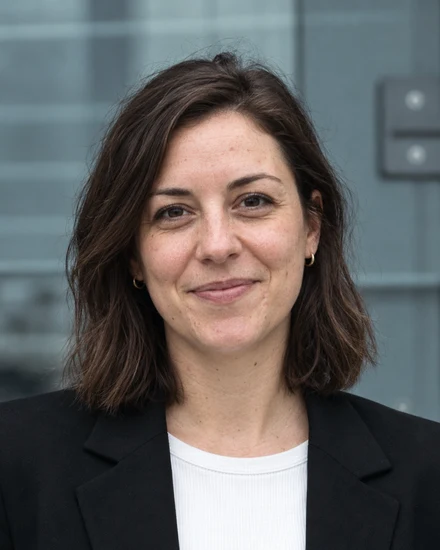
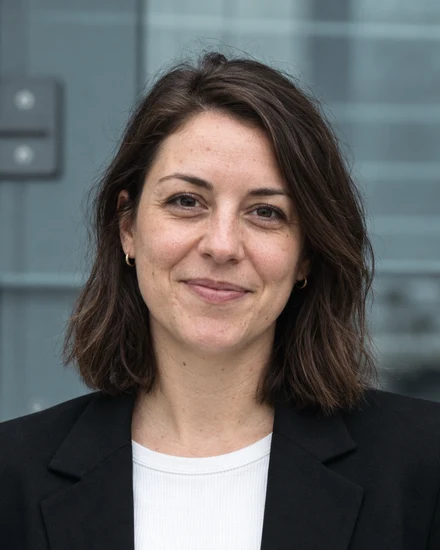
polish(recht, about): Dokumentblatt, sortierter Abschluss, Balken am Rand
Noahs vier Punkte:

1. Laura gespiegelt. Sie und Michael standen in identischer Haltung, was
   in der Dreierreihe wie dasselbe Bild wirkte. Nur die Bilddatei getauscht.

2. Rechtsseiten wirkten kahl. Der Text liegt jetzt auf EINEM deckend weissen
   Dokumentblatt statt frei auf dem Seitengrund, und die Abschnitte sind
   zweispaltig: Kopf mit Nummer und Titel links (bleibt beim Lesen stehen),
   Text rechts. Das fuellt die Breite und macht das Dokument ueberfliegbar,
   ohne den alten Stapel aus zwoelf Karten zurueckzuholen. Die
   Abschnittsnummer traegt jetzt sichtbares Gewicht statt als Etikett zu
   verschwinden. Unter 900px wieder einspaltig.

3. Lesebalken klebte nicht an der Navbar. Ursache: er hing an einer fest
   angenommenen Navbar-Hoehe, die Navbar schrumpft aber beim Scrollen
   (navbarScrolled). Er sitzt jetzt am oberen Fensterrand ueber der Navbar
   und ist damit von deren Hoehe unabhaengig.

4. Abschlussblock stand durcheinander. Ursache war mein Fehler: ctaInner hat
   VIER Kinder, mein Raster hatte drei Spalten, das vierte rutschte in eine
   zweite Reihe. Jedes Kind hat jetzt seinen benannten Platz
   (Symbol links, Ueberschrift ueber Text, Knopf rechts), mobil gestapelt.

Belegt: Wortzahl aller drei Seiten weiterhin identisch, keine zusammen-
geklebten Woerter, kein Ueberlauf und richtige Anordnung bei 1440, 1100,
950, 768, 390 und 320px.

diff --git a/frontend/src/styles/LegalPages.module.css b/frontend/src/styles/LegalPages.module.css
@@ -89,13 +89,16 @@
 }
 
 /* ===================== LESEFORTSCHRITT ===================== */
-/* ⚠ Die Navbar ist sticky und 65px hoch mit z-index 1000. Ein Balken bei
-   top:0 verschwindet dahinter, deshalb sitzt er darunter und darueber. */
+/* ⚠ Der Balken darf NICHT an einer festen Navbar-Hoehe haengen: die Navbar
+   schrumpft beim Scrollen (Klasse navbarScrolled), dadurch klaffte eine
+   sichtbare Luecke zwischen Navbar und Balken. Er sitzt deshalb am oberen
+   Fensterrand ueber der Navbar (die hat z-index 1000) und ist damit von
+   jeder Navbar-Hoehe unabhaengig. */
 .progress {
   position: fixed;
-  top: var(--navhoehe);
+  top: 0;
   left: 0;
-  height: 2px;
+  height: 3px;
   width: 0%;
   background: var(--blau);
   z-index: 1001;
@@ -297,26 +300,47 @@
 .tocItem.active .tocNum { color: var(--blau); opacity: 1; }
 
 /* ===================== INHALT ===================== */
-.content { min-width: 0; }
+/* Der Text liegt auf EINEM Blatt statt auf zwoelf gestapelten Karten. Das
+   gibt der Seite Halt, ohne den Kartenstapel zurueckzuholen: die Abschnitte
+   darin trennt weiterhin nur eine Haarlinie. */
+/* Deckend weiss, nicht durchscheinend: auf dem leicht blaeulichen Seitengrund
+   hebt sich das Blatt sonst kaum ab und die Seite wirkt weiterhin kahl. */
+.content {
+  min-width: 0;
+  background: #ffffff;
+  border: 1px solid var(--linie);
+  border-radius: 20px;
+  padding: clamp(26px, 3.4vw, 48px) clamp(20px, 3vw, 44px) clamp(30px, 3vw, 44px);
+  box-shadow: 0 26px 60px -36px rgba(20, 40, 79, 0.34), 0 2px 5px rgba(20, 40, 79, 0.04);
+}
 
-/* Kein Kartenstapel mehr: die Abschnitte trennt eine Haarlinie. */
+/* Kopf links, Text rechts. Dasselbe Magazin-Prinzip wie im Ratgeber: fuellt
+   die Breite und macht das Dokument ueberfliegbar. */
 .section {
+  display: grid;
+  grid-template-columns: minmax(0, 0.4fr) minmax(0, 1fr);
+  column-gap: clamp(20px, 2.6vw, 40px);
+  align-items: start;
   background: none;
   border: 0;
   border-top: 1px solid var(--linie);
   border-radius: 0;
   box-shadow: none;
-  padding: clamp(34px, 4vw, 52px) 0 clamp(12px, 2vw, 20px);
+  padding: clamp(30px, 3.4vw, 44px) 0 clamp(12px, 2vw, 20px);
   margin: 0;
   scroll-margin-top: calc(var(--navhoehe) + 24px);
 }
-.section:first-child { border-top: 0; padding-top: clamp(10px, 2vw, 22px); }
+.section:first-child { border-top: 0; padding-top: 0; }
 
 .sectionHeader {
+  grid-column: 1;
   display: flex;
+  flex-direction: column;
   align-items: flex-start;
-  gap: 15px;
-  margin-bottom: 22px;
+  gap: 13px;
+  margin-bottom: 0;
+  position: sticky;
+  top: calc(var(--navhoehe) + 26px);
 }
 /* Aus der Verlaufskachel wird ein ruhiges Zeichen in der Markenfarbe. */
 .sectionIcon {
@@ -333,14 +357,16 @@
 }
 .sectionIcon svg { width: 17px; height: 17px; }
 .sectionHeaderText { min-width: 0; }
+/* Traegt die Abschnittsnummer und ist in der linken Spalte das Ankerzeichen,
+   deshalb deutlich groesser als ein blosses Etikett. */
 .sectionKicker {
   font-family: var(--mono);
-  font-size: 11.5px;
+  font-size: 15px;
   font-weight: 600;
   text-transform: uppercase;
-  letter-spacing: .13em;
-  color: var(--blau-tief);
-  margin-bottom: 5px;
+  letter-spacing: .1em;
+  color: var(--blau);
+  margin-bottom: 7px;
 }
 .sectionTitle {
   margin: 0;
@@ -351,11 +377,14 @@
   color: var(--tinte);
 }
 
+/* Die Zeilenlaenge wird ueber die Schriftgroesse gesteuert, nicht ueber
+   max-width: sonst deckelt sie die Spalte und rechts bleibt Weissraum. */
 .sectionBody {
-  font-size: clamp(16px, 1.15vw, 17.5px);
-  line-height: 1.75;
+  grid-column: 2;
+  font-size: clamp(15.5px, 1.12vw, 17px);
+  line-height: 1.72;
   color: var(--tinte-weich);
-  max-width: 74ch;
+  min-width: 0;
 }
 .sectionBody p { margin: 0 0 17px; }
 .sectionBody p:last-child { margin-bottom: 0; }
@@ -397,7 +426,7 @@
   display: flex;
   flex-direction: column;
   gap: 10px;
-  max-width: 74ch;
+  max-width: none;
 }
 .list li {
   position: relative;
@@ -429,7 +458,7 @@
   font-size: clamp(15.5px, 1.1vw, 16.5px);
   line-height: 1.68;
   background: none;
-  max-width: 74ch;
+  max-width: none;
 }
 .callout strong { font-weight: 600; }
 .calloutInfo { border-left-color: var(--blau); color: var(--tinte-weich); }
@@ -453,7 +482,7 @@
   /* Auf der getoenten Flaeche reicht --tinte-weich nicht (4,29:1), deshalb
      ein dunklerer Ton nur hier. */
   color: #465c82;
-  max-width: 74ch;
+  max-width: none;
 }
 .highlightBox strong { color: var(--tinte); font-weight: 600; }
 
@@ -466,7 +495,7 @@
   gap: 0 clamp(20px, 3vw, 44px);
   margin: 22px 0;
   border-top: 1px solid var(--linie);
-  max-width: 74ch;
+  max-width: none;
 }
 .infoCard {
   background: none;
@@ -523,7 +552,7 @@ a.infoCard:hover .infoValue { color: var(--blau-tief); }
   gap: 0;
   margin: 24px 0;
   border-top: 1px solid var(--linie);
-  max-width: 74ch;
+  max-width: none;
 }
 .tarifCard {
   position: relative;
@@ -597,27 +626,38 @@ a.infoCard:hover .infoValue { color: var(--blau-tief); }
   color: var(--tinte);
   box-shadow: none;
 }
+/* ⚠ ctaInner hat VIER Kinder (Symbol, Ueberschrift, Text, Knopf). Ein Raster
+   mit drei Spalten schob das vierte in eine zweite Reihe, dadurch stand alles
+   durcheinander. Jedes Kind bekommt deshalb seinen benannten Platz. */
 .ctaInner {
   position: relative;
   z-index: 1;
   display: grid;
   grid-template-columns: auto minmax(0, 1fr) auto;
+  grid-template-areas:
+    "symbol ueberschrift knopf"
+    "symbol text         knopf";
   align-items: center;
-  gap: clamp(16px, 2.5vw, 30px);
+  column-gap: clamp(16px, 2.5vw, 28px);
+  row-gap: 6px;
 }
 .ctaIcon {
+  grid-area: symbol;
   display: inline-flex;
   align-items: center;
   justify-content: center;
-  width: 42px;
-  height: 42px;
+  width: 44px;
+  height: 44px;
   border-radius: 12px;
   background: var(--flaeche);
   color: var(--blau);
   margin: 0;
   flex-shrink: 0;
+  align-self: center;
 }
 .ctaTitle {
+  grid-area: ueberschrift;
+  align-self: end;
   margin: 0;
   font-size: clamp(20px, 2vw, 25px);
   font-weight: 600;
@@ -626,13 +666,17 @@ a.infoCard:hover .infoValue { color: var(--blau-tief); }
   color: var(--tinte);
 }
 .ctaText {
-  margin: 7px 0 0;
+  grid-area: text;
+  align-self: start;
+  margin: 0;
   max-width: 62ch;
   font-size: 16px;
   line-height: 1.6;
   color: var(--tinte-weich);
 }
 .ctaButton {
+  grid-area: knopf;
+  align-self: center;
   display: inline-flex;
   align-items: center;
   gap: 9px;
@@ -666,16 +710,35 @@ a.infoCard:hover .infoValue { color: var(--blau-tief); }
   .shell { grid-template-columns: minmax(0, 1fr); }
   .toc { display: none; }
 }
+/* Unter 900px reicht die Breite nicht mehr fuer zwei Spalten: Kopf ueber
+   den Text, und der Kopf klebt nicht mehr mit. */
+@media (max-width: 900px) {
+  .section { grid-template-columns: minmax(0, 1fr); }
+  .sectionHeader,
+  .sectionBody { grid-column: 1; }
+  .sectionHeader {
+    position: static;
+    flex-direction: row;
+    align-items: flex-start;
+    gap: 14px;
+    margin-bottom: 20px;
+  }
+}
 @media (max-width: 640px) {
   .hero { padding: 40px 20px 26px; }
   .heroTitle { font-size: clamp(28px, 8vw, 34px); }
+  .content { padding: 22px 18px; border-radius: 16px; }
   .section { padding: 28px 0 10px; }
   .sectionHeader { gap: 12px; margin-bottom: 18px; }
+  .ctaInner {
+    grid-template-columns: minmax(0, 1fr);
+    grid-template-areas: "symbol" "ueberschrift" "text" "knopf";
+    row-gap: 14px;
+  }
+  .ctaButton { justify-self: start; }
   .sectionIcon { width: 30px; height: 30px; border-radius: 9px; }
   .sectionIcon svg { width: 15px; height: 15px; }
   .cta { border-radius: 14px; padding: 26px 20px; }
-  .ctaInner { grid-template-columns: minmax(0, 1fr); gap: 16px; }
-  .ctaButton { justify-content: center; }
   .infoGrid, .tarifGrid { gap: 0; }
 }
 @media (max-width: 400px) {
